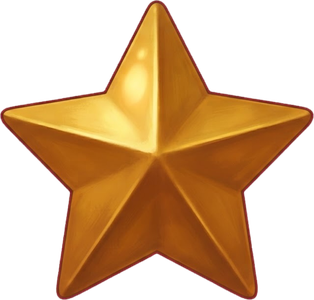
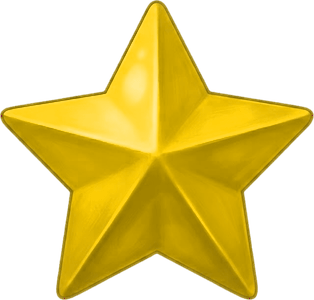
Victoire plus colorée : étoiles jaune vif qui brillent et scintillent, soleil de rayons derrière le héros, confettis multicolores, récapitulatif en couleurs, bouton or vif
Demande de l'auteur (la défaite est gardée telle quelle). Les confettis ne
bloquent pas les boutons (testé). 85 contrôles verts, 108 sabotages prouvés ;
sonde de taps 20 / 20.

diff --git a/mobile/src/screens/games/CombatScreen.js b/mobile/src/screens/games/CombatScreen.js
@@ -1764,6 +1764,9 @@ const FIN_IMG = {
   lauriers: require('../../../assets/combat/fin/lauriers.png'),
   boutonBois: require('../../../assets/combat/fin/bouton-bois.png'),
   boutonDore: require('../../../assets/exploration/bouton-combattre-vierge.png'),
+  // 05/10 (l'auteur : « plus coloré ») : la face dorée ravivée, pour la VICTOIRE ; le bois de
+  // l'emblème garde son brun. La défaite garde le bouton maison.
+  boutonDoreVif: require('../../../assets/combat/fin/bouton-dore-vif.png'),
 };
 const FIN_RAPPORT = { etoile: 314 / 300, lauriers: 708 / 640, boutonDore: 1144 / 296 };
 const FIN_V = {
@@ -1835,22 +1838,87 @@ function RecapPlaque({ x, y, w, h, valeur, legende, couleur, chiffre, police }) 
 // Une étoile : gagnée, elle JAILLIT (l'une après l'autre) ; sinon, éteinte (grise).
 function EtoileFin({ cx, cy, t, gagnee, delai }) {
   const a = useRef(new Animated.Value(gagnee ? 0 : 1)).current;
+  const lueur = useRef(new Animated.Value(0)).current;
+  const scint = useRef(new Animated.Value(0)).current;
   useEffect(() => {
-    if (!gagnee) return;
+    if (!gagnee) return undefined;
     Animated.sequence([Animated.delay(delai), Animated.spring(a, { toValue: 1, friction: 4, tension: 120, useNativeDriver: ND })]).start();
+    // 05/10 (l'auteur : « plus jaunes et qui brillent ») : une lueur qui PULSE derrière, et un
+    // SCINTILLEMENT ✦ qui passe d'une étoile à l'autre (décalé par `delai`).
+    const pulse = Animated.loop(Animated.sequence([
+      Animated.timing(lueur, { toValue: 1, duration: 850, useNativeDriver: ND }),
+      Animated.timing(lueur, { toValue: 0.45, duration: 850, useNativeDriver: ND }),
+    ]));
+    const eclat = Animated.loop(Animated.sequence([
+      Animated.delay(900 + delai),
+      Animated.timing(scint, { toValue: 1, duration: 200, useNativeDriver: ND }),
+      Animated.timing(scint, { toValue: 0, duration: 280, useNativeDriver: ND }),
+      Animated.delay(1400),
+    ]));
+    const id = setTimeout(() => { pulse.start(); eclat.start(); }, delai + 250);
+    return () => { clearTimeout(id); pulse.stop(); eclat.stop(); };
   }, []);
   const w = t * FIN_RAPPORT.etoile;
   return (
-    <Animated.Image source={FIN_IMG.etoile} resizeMethod="scale" resizeMode="stretch"
-      style={[{ position: 'absolute', left: cx - w / 2, top: cy - t / 2, width: w, height: t, pointerEvents: 'none', transform: [{ scale: a }] },
-        !gagnee && { tintColor: '#2b3038', opacity: 0.92 }]} />
+    <View style={{ position: 'absolute', left: 0, top: 0, width: 0, height: 0, pointerEvents: 'none' }}>
+      {gagnee && (
+        <Animated.Image source={COMBAT_IMG.lueur} resizeMethod="scale" resizeMode="stretch"
+          style={{ position: 'absolute', left: cx - t * 1.35, top: cy - t * 1.35, width: t * 2.7, height: t * 2.7, opacity: lueur }} />
+      )}
+      <Animated.Image source={FIN_IMG.etoile} resizeMethod="scale" resizeMode="stretch"
+        style={[{ position: 'absolute', left: cx - w / 2, top: cy - t / 2, width: w, height: t, transform: [{ scale: a }] },
+          !gagnee && { tintColor: '#2b3038', opacity: 0.92 }]} />
+      {gagnee && (
+        <Animated.Text style={[styles.finScintille, { left: cx + w * 0.12, top: cy - t * 0.72, fontSize: Math.round(t * 0.45), opacity: scint,
+          transform: [{ scale: scint.interpolate({ inputRange: [0, 1], outputRange: [0.3, 1.2] }) }, { rotate: '15deg' }] }]}>✦</Animated.Text>
+      )}
+    </View>
   );
 }
 // Le médaillon du héros : couronne de lauriers, anneau doré, la créature zoomée sur sa zone
 // dessinée et découpée en rond (MÊME géométrie que l'aperçu de niveau : 76 %, cadrage) ;
 // lueur dorée en victoire, médaillon TERNI en défaite.
+// Confettis de la VICTOIRE (05/10, « plus coloré, les joueurs aiment ça ») : une pluie
+// multicolore, une seule fois, TRANSPARENTE au toucher (couche et chaque pièce).
+const CONFETTI_COULEURS = ['#ff4d6d', '#ffd23f', '#3ec1d3', '#7bd389', '#b388ff', '#ff9f1c', '#ffffff'];
+function Confettis({ W, H, nombre = 46 }) {
+  const pieces = useRef(Array.from({ length: nombre }, (_, i) => ({
+    x: Math.random() * W, couleur: CONFETTI_COULEURS[i % CONFETTI_COULEURS.length],
+    duree: 3200 + Math.random() * 1800, delai: Math.random() * 900,
+    tour: (Math.random() < 0.5 ? -1 : 1) * (360 + Math.random() * 540), derive: (Math.random() - 0.5) * 80,
+    w: 6 + Math.random() * 5, h: 10 + Math.random() * 6, anim: new Animated.Value(0),
+  }))).current;
+  useEffect(() => {
+    const a = Animated.parallel(pieces.map((p) => Animated.sequence([
+      Animated.delay(p.delai),
+      Animated.timing(p.anim, { toValue: 1, duration: p.duree, easing: Easing.linear, useNativeDriver: ND }),
+    ])));
+    a.start();
+    return () => a.stop();
+  }, []);
+  return (
+    <View style={styles.coucheConfettis}>
+      {pieces.map((p, i) => (
+        <Animated.View key={i} style={{ position: 'absolute', left: p.x, top: -20, width: p.w, height: p.h, borderRadius: 2, backgroundColor: p.couleur, pointerEvents: 'none',
+          opacity: p.anim.interpolate({ inputRange: [0, 0.85, 1], outputRange: [1, 1, 0] }),
+          transform: [{ translateY: p.anim.interpolate({ inputRange: [0, 1], outputRange: [0, H + 40] }) },
+            { translateX: p.anim.interpolate({ inputRange: [0, 0.5, 1], outputRange: [0, p.derive, p.derive * 0.4] }) },
+            { rotate: p.anim.interpolate({ inputRange: [0, 1], outputRange: ['0deg', `${p.tour}deg`] }) }] }} />
+      ))}
+    </View>
+  );
+}
+
 function MedaillonHeros({ cx, cy, t, heros, terne, lauriersH }) {
   const ri = t * 0.76;
+  // 05/10 (« plus coloré ») : soleil de RAYONS dorés qui tourne lentement derrière (victoire).
+  const rot = useRef(new Animated.Value(0)).current;
+  useEffect(() => {
+    if (terne) return undefined;
+    const l = Animated.loop(Animated.timing(rot, { toValue: 1, duration: 22000, easing: Easing.linear, useNativeDriver: ND }));
+    l.start();
+    return () => l.stop();
+  }, [terne]);
   const cad = heros && heros.creatureId ? (CADRAGE_CREATURES[heros.creatureId] || {})[heros.stade] : null;
   let art = null;
   if (cad) {
@@ -1867,6 +1935,11 @@ function MedaillonHeros({ cx, cy, t, heros, terne, lauriersH }) {
   const lw = lauriersH * FIN_RAPPORT.lauriers;
   return (
     <View style={{ position: 'absolute', left: 0, top: 0, width: 0, height: 0, pointerEvents: 'none' }}>
+      {!terne && (
+        <Animated.Image source={EFFET_ELEMENT['Lumière']} resizeMethod="scale" resizeMode="contain"
+          style={{ position: 'absolute', left: cx - t * 1.75, top: cy - t * 1.75, width: t * 3.5, height: t * 3.5, opacity: 0.85,
+            transform: [{ rotate: rot.interpolate({ inputRange: [0, 1], outputRange: ['0deg', '360deg'] }) }] }} />
+      )}
       {!terne && <Image source={COMBAT_IMG.lueur} resizeMethod="scale" resizeMode="stretch" style={{ position: 'absolute', left: cx - t * 1.15, top: cy - t * 1.15, width: t * 2.3, height: t * 2.3, opacity: 0.7 }} />}
       <Image source={FIN_IMG.lauriers} resizeMethod="scale" resizeMode="stretch" style={{ position: 'absolute', left: cx - lw / 2, top: cy - lauriersH * 0.47, width: lw, height: lauriersH, opacity: terne ? 0.55 : 1 }} />
       <Image source={COMBAT_IMG.medaillon} resizeMethod="scale" resizeMode="stretch" style={{ position: 'absolute', left: cx - t / 2, top: cy - t / 2, width: t, height: t }} />
@@ -1923,16 +1996,16 @@ function CombatResultScreen({ outcome, levelNumber, battleStats, opponentCount, 
   const r = (o) => ({ x: cx - (o.w * u) / 2, y: o.y * u, w: o.w * u, h: o.h * u });
   return (
     <ImageBackground source={VICTORY_BG} style={styles.screen} resizeMode="cover">
-      {/* Voile : léger en victoire, nettement plus sombre et froid en défaite. */}
-      <View style={[styles.resultDim, !isWin && styles.resultDimLose]} />
-      <PieceTexte source={COMBAT_IMG.planche} {...r(L.titre)} texte={isWin ? 'VICTOIRE !' : 'DÉFAITE'} police={L.titre.police * u} couleur={isWin ? '#ffe9a8' : '#dfe8f5'} />
+      {/* Voile : AUCUN en victoire (05/10, « plus coloré »), sombre et froid en défaite. */}
+      {!isWin && <View style={[styles.resultDim, styles.resultDimLose]} />}
+      <PieceTexte source={COMBAT_IMG.planche} {...r(L.titre)} texte={isWin ? 'VICTOIRE !' : 'DÉFAITE'} police={L.titre.police * u} couleur={isWin ? '#ffe14d' : '#dfe8f5'} />
       <MedaillonHeros cx={cx} cy={L.medaillon.y * u} t={L.medaillon.t * u} heros={heros} terne={!isWin} lauriersH={L.lauriers.h * u} />
       {L.etoiles.map((e, i) => (
         <EtoileFin key={i} cx={cx + e.dx * u} cy={e.y * u} t={e.t * u} gagnee={i < stars} delai={300 + i * 220} />
       ))}
       <PieceTexte source={COMBAT_IMG.planche} {...r(L.etiquette)} texte={isWin ? 'Héros du combat' : 'Meilleure créature'} police={L.etiquette.police * u} />
-      <PieceTexte source={COMBAT_IMG.planche} {...r(L.centre)} texte={centre} police={L.centre.police * u} lignes={L.centre.lignes} marge={0.09} />
-      {[['Infligés', battleStats.totalDamageDealt, '#ffe9a8'], ['Reçus', battleStats.totalDamageTaken, '#ff8a7a'], ['Tours', battleStats.rounds, '#ffe9a8']].map(([leg, val, coul], i) => (
+      <PieceTexte source={COMBAT_IMG.planche} {...r(L.centre)} texte={centre} police={L.centre.police * u} lignes={L.centre.lignes} marge={0.09} couleur={isWin ? '#ffe680' : '#fbe9c4'} />
+      {[['Infligés', battleStats.totalDamageDealt, isWin ? '#ffd23f' : '#ffe9a8'], ['Reçus', battleStats.totalDamageTaken, isWin ? '#ff6b8b' : '#ff8a7a'], ['Tours', battleStats.rounds, isWin ? '#6fd3ff' : '#ffe9a8']].map(([leg, val, coul], i) => (
         <RecapPlaque key={leg} x={cx + (i - 1) * L.recap.ecart * u - (L.recap.w * u) / 2} y={L.recap.y * u} w={L.recap.w * u} h={L.recap.h * u}
           valeur={val} legende={leg} couleur={coul} chiffre={L.recap.chiffre * u} police={L.recap.legende * u} />
       ))}
@@ -1940,12 +2013,13 @@ function CombatResultScreen({ outcome, levelNumber, battleStats, opponentCount, 
         <BoutonFin key={a.cle} source={FIN_IMG.boutonBois} x={cx + (i - (aides.length - 1) / 2) * L.aides.ecart * u - (L.aides.w * u) / 2} y={L.aides.y * u}
           w={L.aides.w * u} h={L.aides.h * u} texte={a.texte} police={L.aides.police * u} lignes={2} onPress={a.onPress} disabled={!btnsArmed} />
       ))}
-      <BoutonFin source={FIN_IMG.boutonDore} x={cx - (L.bouton.w * u) / 2} y={L.bouton.y * u} w={L.bouton.w * u} h={(L.bouton.w * u) / FIN_RAPPORT.boutonDore}
+      <BoutonFin source={isWin ? FIN_IMG.boutonDoreVif : FIN_IMG.boutonDore} x={cx - (L.bouton.w * u) / 2} y={L.bouton.y * u} w={L.bouton.w * u} h={(L.bouton.w * u) / FIN_RAPPORT.boutonDore}
         texte={principal.texte} police={L.bouton.police * u} lignes={L.bouton.lignes} couleur="#5a360f" dore onPress={principal.onPress} disabled={!btnsArmed} />
       {(isWin || avecAides) && (
         <BoutonFin source={FIN_IMG.boutonBois} x={W - insets.right - (FIN_RETOUR.marge + FIN_RETOUR.w) * u} y={FIN_RETOUR.y * u} w={FIN_RETOUR.w * u} h={FIN_RETOUR.h * u}
           texte="Retour à la carte" police={FIN_RETOUR.police * u} onPress={onContinue} disabled={!btnsArmed} />
       )}
+      {isWin && <Confettis W={W} H={H} />}
     </ImageBackground>
   );
 }
@@ -2000,6 +2074,8 @@ const styles = StyleSheet.create({
   },
   // Effets d'impact (03/10)
   // Étape 3 : sorts, spécial, K.O. (03/10)
+  finScintille: { position: 'absolute', color: '#ffffff', fontWeight: '900', includeFontPadding: false, textShadowColor: 'rgba(255,230,120,0.95)', textShadowRadius: 8 },
+  coucheConfettis: { position: 'absolute', left: 0, top: 0, right: 0, bottom: 0, zIndex: 30, pointerEvents: 'none' },
   sortCercle: { position: 'absolute', borderWidth: 3 },
   sortParticule: { position: 'absolute', top: 0, width: 9, height: 9, borderRadius: 5 },
   sortGoutte: { width: 7, height: 13, borderTopLeftRadius: 3.5, borderTopRightRadius: 3.5, borderBottomLeftRadius: 6, borderBottomRightRadius: 6 },

diff --git a/mobile/tools/audit-quetes.js b/mobile/tools/audit-quetes.js
@@ -4403,6 +4403,10 @@ function auditEcranFin() {
     [/texte="Retour à la carte"[\s\S]{0,200}onPress=\{onContinue\}|onPress=\{onContinue\}[\s\S]{0,200}texte="Retour à la carte"/, '« Retour à la carte » ne ramène plus à la carte'],
   ];
   for (const [re, msg] of exige) if (!re.test(ecran)) pb.push(msg);
+  // 05/10 : les CONFETTIS couvrent tout l'écran (boutons compris) ~4 s → transparents au toucher.
+  if (!/coucheConfettis: \{[^}]*pointerEvents: 'none'/.test(s)) pb.push('la couche des confettis capte le toucher : les boutons de fin seraient bloqués');
+  const conf = s.slice(s.indexOf('function Confettis('), s.indexOf('\n}\n', s.indexOf('function Confettis(')));
+  if (!/borderRadius: 2, backgroundColor: p\.couleur, pointerEvents: 'none'/.test(conf)) pb.push('un confetti capte le toucher');
   const decl = (ecran.match(/function CombatResultScreen\(\{([^}]*)\}/) || [, ''])[1].split(',').map((x) => x.split('=')[0].trim()).filter(Boolean);
   const appel = s.slice(s.indexOf('<CombatResultScreen'), s.indexOf('/>', s.indexOf('<CombatResultScreen')));
   for (const p of decl) if (!new RegExp('\\b' + p + '=').test(appel)) pb.push(`prop « ${p} » déclarée mais jamais passée par l'appel`);

diff --git a/mobile/tools/verifier-controles.js b/mobile/tools/verifier-controles.js
@@ -237,6 +237,8 @@ const SABOTAGES = [
     remplace("  return hi;\n}\n// « Ton deck » face au Gardien", "  return hi + 1;\n}\n// « Ton deck » face au Gardien")],
   ['auditZoneTapLibre', F.ecran, "le calque des « +X » repasse en PROPRIÉTÉ pointerEvents (ignorée sur téléphone : taps bloqués)",
     remplace("              <View style={[StyleSheet.absoluteFill, { pointerEvents: 'none' }]}>", "              <View pointerEvents=\"none\" style={StyleSheet.absoluteFill}>")],
+  ['auditEcranFin', F.combatEcran, "confettis capteurs de toucher : les boutons de la victoire bloqués pendant leur chute",
+    remplace("coucheConfettis: { position: 'absolute', left: 0, top: 0, right: 0, bottom: 0, zIndex: 30, pointerEvents: 'none' },", "coucheConfettis: { position: 'absolute', left: 0, top: 0, right: 0, bottom: 0, zIndex: 30 },")],
   ['auditEcranFin', F.combatEcran, "le pack de Griffes de la défaite débranché par la refonte",
     remplace('onPress: aide.onPackGriffes }', 'onPress: () => {} }')],
   ['auditRuneArcane', F.combatEcran, "l'écran oublie la Rune d'Arcane : mana de départ fixe",

diff --git a/mobile/CLICKER_ADVENTURE_STATE.md b/mobile/CLICKER_ADVENTURE_STATE.md
@@ -2223,3 +2223,16 @@ l'or jaune de la maquette n'est qu'une interprétation de Gemini), FIN_V / FIN_D
 MedaillonHeros (terne en défaite). Contrôle auditEcranFin (aucune action perdue,
 props passées) + sabotage ; motifs : un texte avec ${…} → [\s\S]{0,140}?, pas [^}]*.
 85 contrôles verts, 107 sabotages.
+
+**05/10 — Victoire PLUS COLORÉE** (l'auteur : « étoiles plus jaunes et qui brillent ;
+plus coloré, les joueurs aiment ça » ; la défaite est BIEN, inchangée).
+Étoile ravivée (teinte, saturation, luminosité des pixels dorés ; ombrage gardé)
+→ jaune franc ; bouton-dore-vif.png (face dorée claire SEULE ravivée, pondérée par la
+luminosité : le bois de l'emblème garde son brun — un 1er essai sans pondération
+l'avait rendu vert olive). EtoileFin : lueur qui PULSE (×2,7) + scintillement ✦
+décalé par étoile (boucles arrêtées au démontage). MedaillonHeros : soleil de rayons
+(effet « Lumière ») qui tourne en 22 s derrière (victoire). Confettis multicolores
+(46, chute régulière 3,2-5 s) : couche ET pièces transparentes au toucher
+(testé : « Retour à la carte » touché en pleine chute → écran quitté). Plus de
+voile en victoire ; titre jaune vif ; récapitulatif or / rose-rouge / bleu clair.
+auditEcranFin étendu (confettis) + sabotage. 85 contrôles, 108 sabotages.
